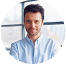
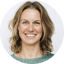
fix testtestimonial page

diff --git a/src/components/findCircle/FindCircle5.js b/src/components/findCircle/FindCircle5.js
@@ -8,7 +8,7 @@ function FindCircle5(props) {
     <div id="findCircle5">
       <div className="" style={{ minHeight: "90vh!important" }}>
         <div className="">
-        <div className="p-t-h">
+          <div className="p-t-h">
             <img
               src={"assets/img/heroLogoWhite.png"}
               alt="logo"
@@ -37,11 +37,11 @@ function FindCircle5(props) {
             <div className="card border-blue mb-3">
               <div className="card-body flex-center flex-col">
                 <img
-                  src="assets/img/image7.png"
+                  src="assets/img/image5.png"
                   alt="image"
                   className="imaged w48 rounded"
                 />
-                <span className="blue">A girl from AMS</span>
+                <span className="blue">Esther Rimmelink</span>
                 <small className="blue mb-2">Amsterdam, Netherlands</small>
                 <p className="blue">
                   “I wanted to do more for climate, but I just
@@ -53,12 +53,12 @@ function FindCircle5(props) {
             <div className="card border-blue mb-3">
               <div className="card-body flex-center flex-col">
                 <img
-                  src="assets/img/image5.png"
+                  src="assets/img/image6.png"
                   alt="image"
                   className="imaged w48 rounded"
                 />
                 <span className="blue">Anne-Flore Lepeu</span>
-                <small className="blue mb-2">Paris, France</small>
+                <small className="blue mb-2">Bordeaux, France</small>
                 <p className="blue">
                   “Having real time reports on the policies
                   <br /> impacted by the HERO Circle I support is
@@ -69,11 +69,11 @@ function FindCircle5(props) {
             <div className="card border-blue mb-3">
               <div className="card-body flex-center flex-col">
                 <img
-                  src="assets/img/image6.png"
+                  src="assets/img/image7.png"
                   alt="image"
                   className="imaged w48 rounded"
                 />
-                <span className="blue">A guy from London</span>
+                <span className="blue">Leo Horn</span>
                 <small className="blue mb-2">London, UK</small>
                 <p className="blue">
                   “HERO has made changing the world as
